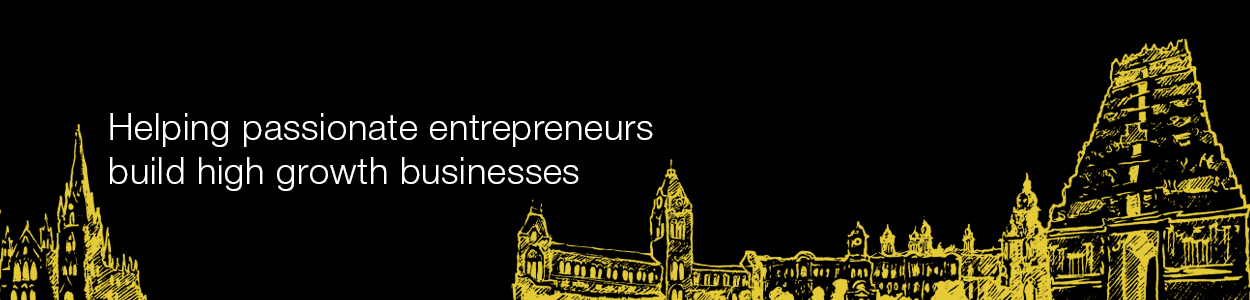
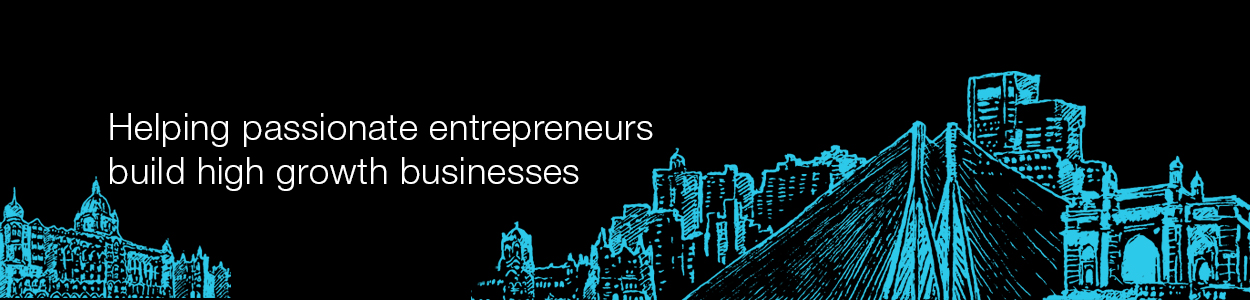
updated 35north lp content

Changed region(s): [[0.3744, 0.12, 1.0, 1.0], [0.0, 0.48, 0.1872, 1.0]]

diff --git a/public/lp/35-North/_includes/masthead.html b/public/lp/35-North/_includes/masthead.html
@@ -51,6 +51,23 @@
     max-height: 250px;
   }
 
+  .kc-masthead4 {
+    position: relative;
+     color: white;
+    background: 
+    url('img/1250x300-new-4.jpg') no-repeat center center;
+    background: 
+    url('img/1250x300-new-4.jpg') no-repeat center center;
+    background: 
+    url('img/1250x300-new-4.jpg') no-repeat center center;
+    -webkit-background-size: cover;
+    -moz-background-size: cover;
+    -o-background-size: cover;
+    background-size: cover;
+    min-height: 300px;
+    max-height: 250px;
+  }
+
   .kc-masthead__content {
     text-align: center;
     position: absolute;
@@ -126,6 +143,7 @@ $('#myCarousel').carousel({
     <li data-target="#myCarousel" data-slide-to="0" class="active"></li>
     <li data-target="#myCarousel" data-slide-to="1"></li>
     <li data-target="#myCarousel" data-slide-to="2"></li>
+    <li data-target="#myCarousel" data-slide-to="3"></li>
   </ol>
 
   <!-- Wrapper for slides -->
@@ -143,6 +161,12 @@ $('#myCarousel').carousel({
     </div>
 
     <div class="item kc-masthead3">
+      <div class="kc-masthead__content">
+        <h1 class="kc-masthead__content--headline"></h1>
+      </div>
+    </div>
+
+    <div class="item kc-masthead4">
       <div class="kc-masthead__content">
         <h1 class="kc-masthead__content--headline"></h1>
       </div>
